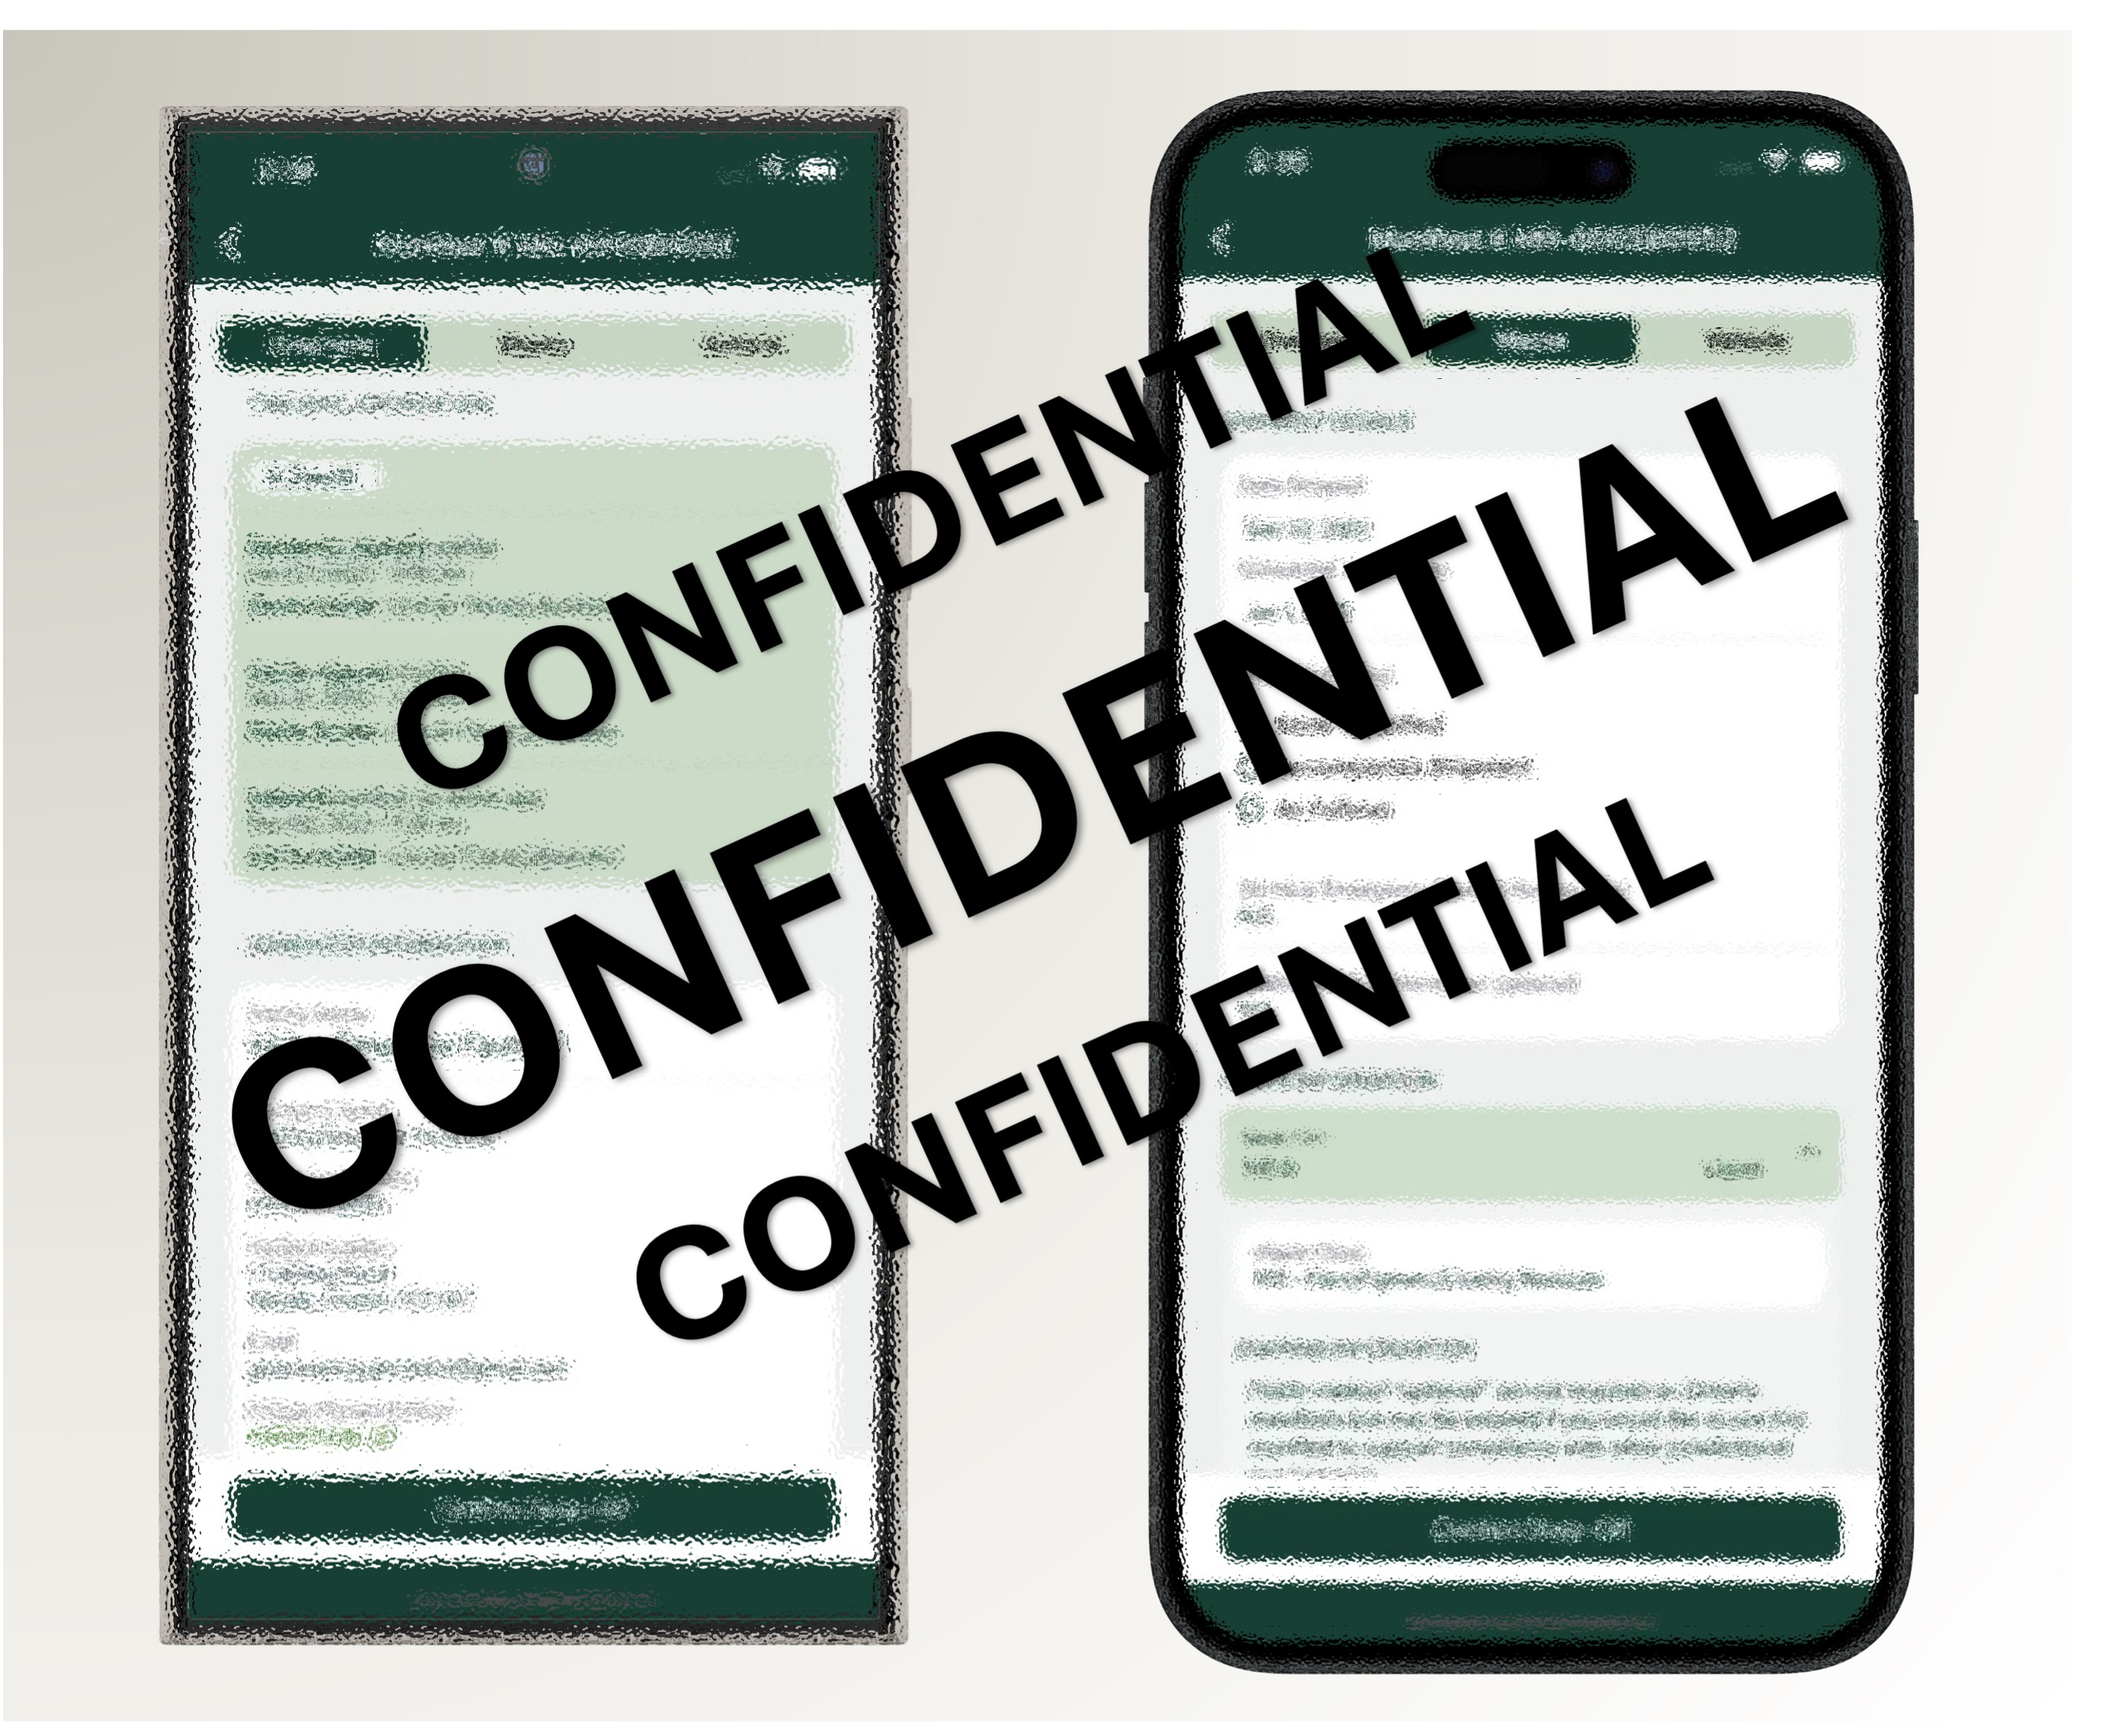
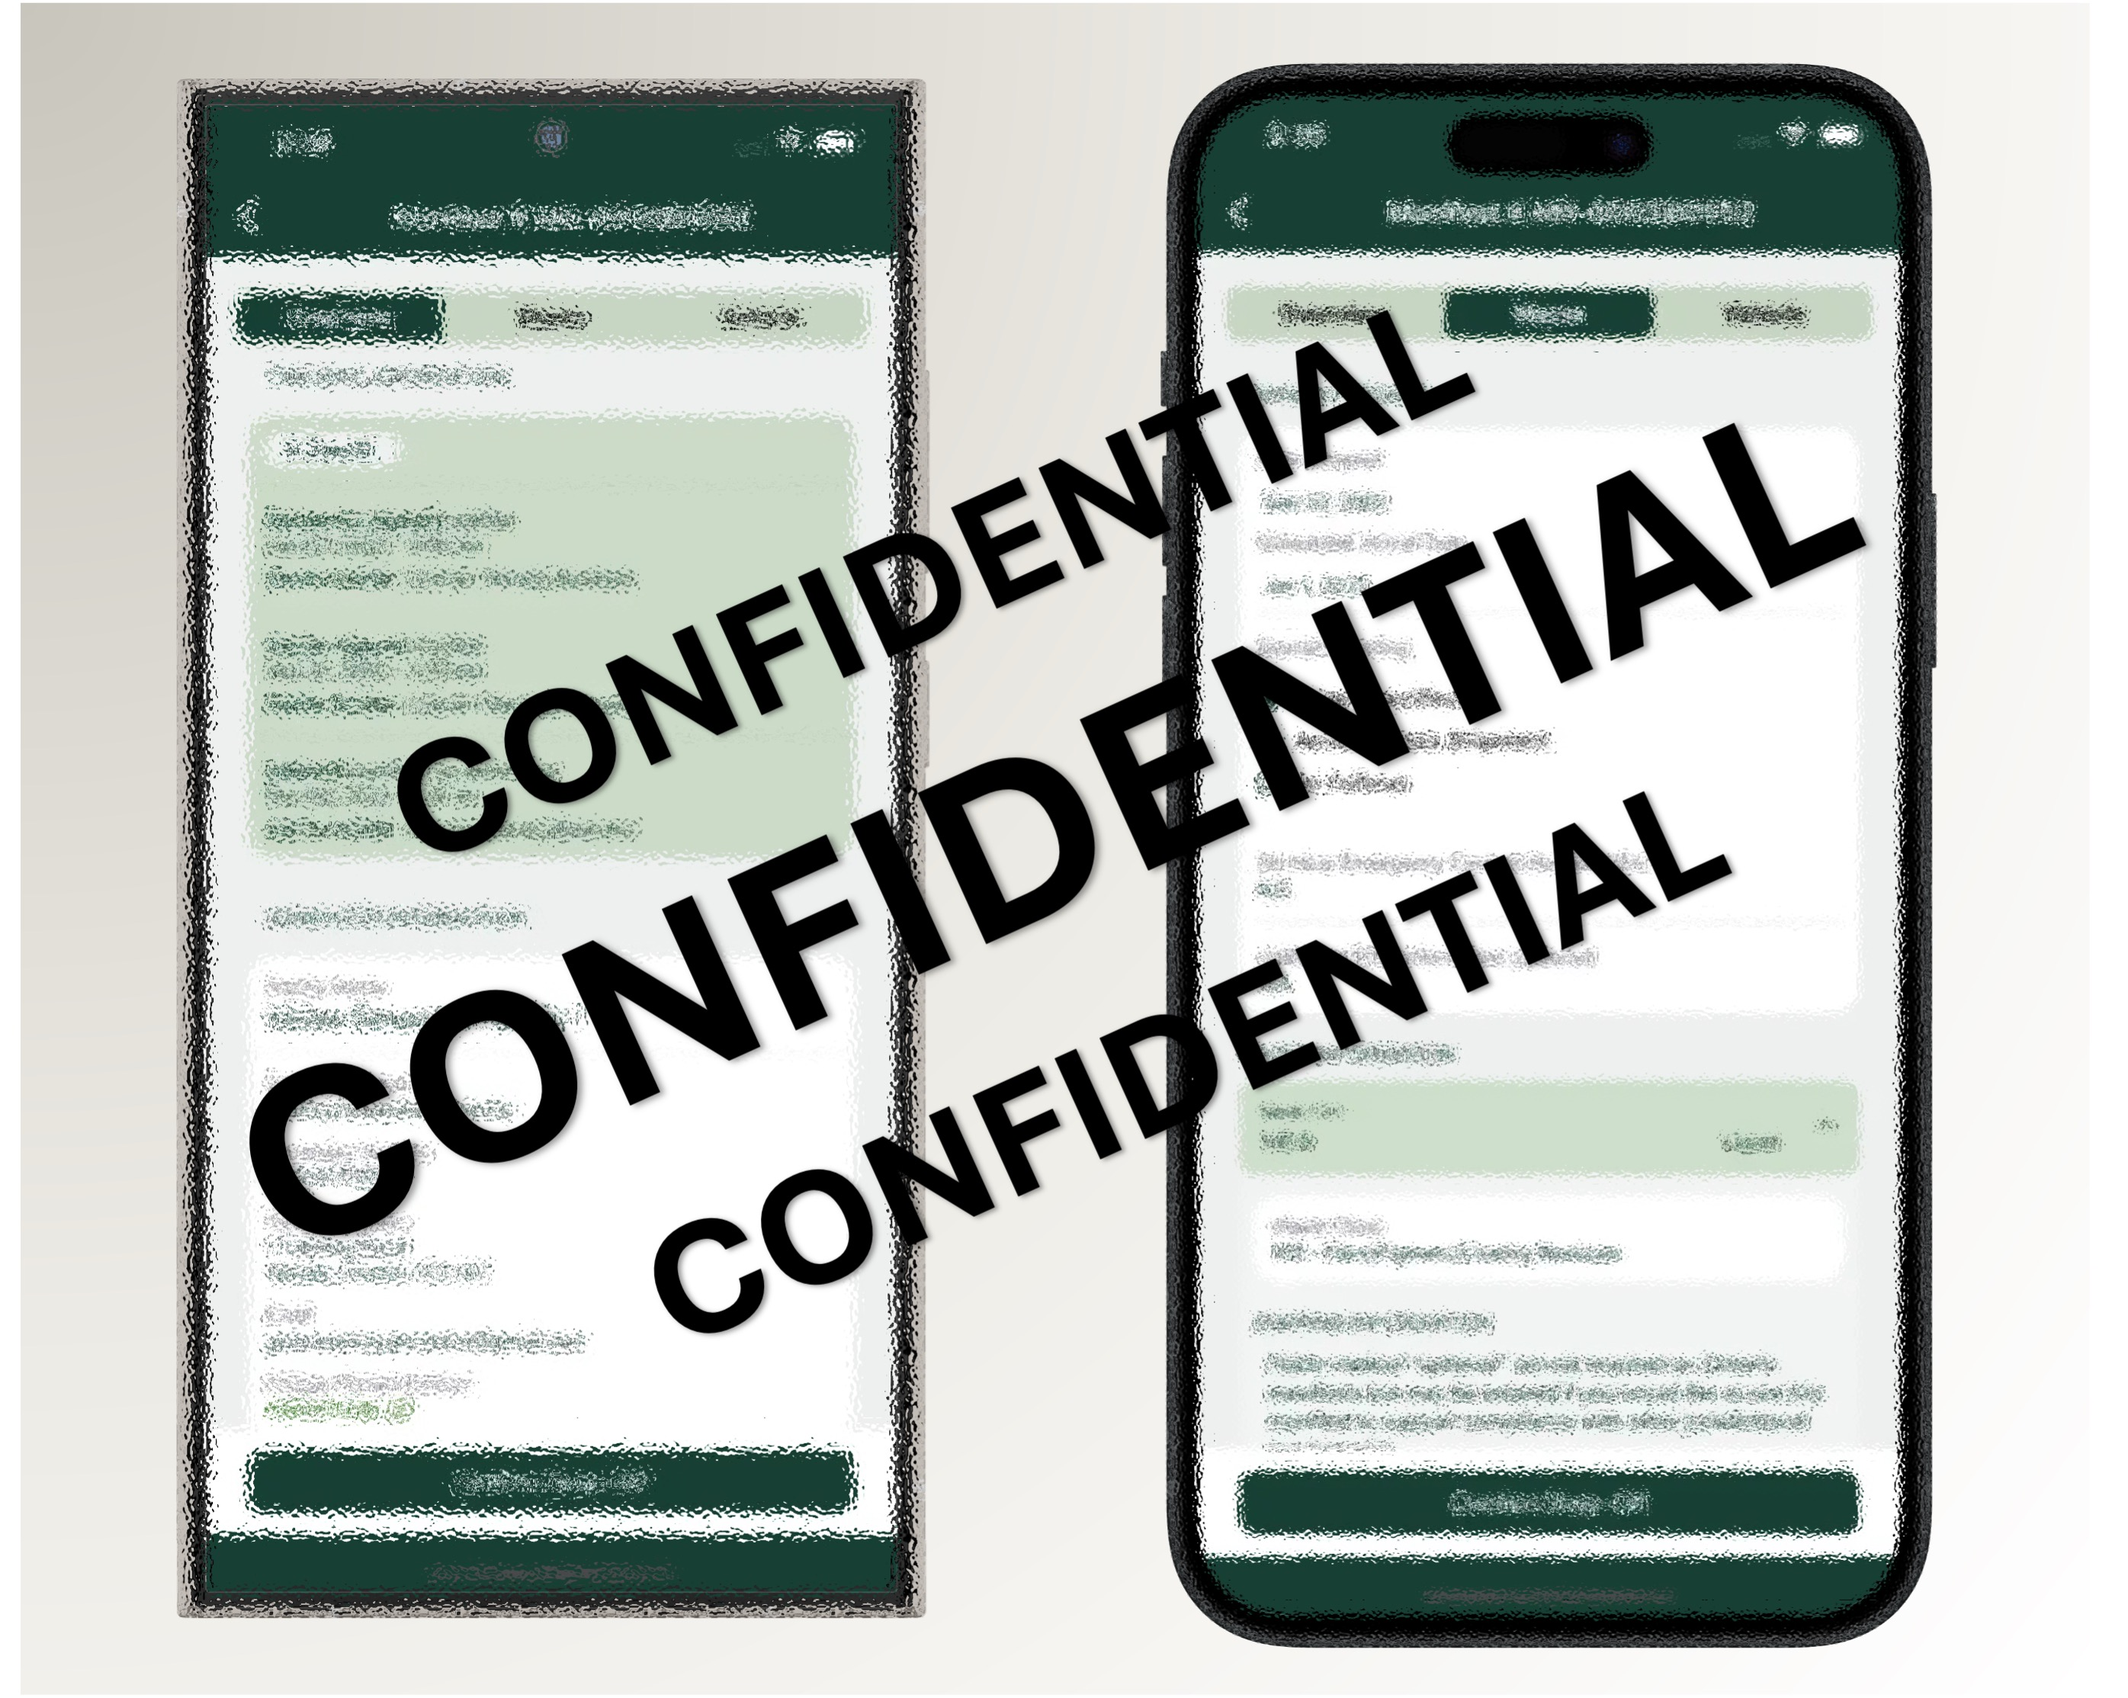
Update: Added GFL Project Images

Changed region(s): [[0.0, 0.0, 0.9321, 0.9915]]

diff --git a/src/features/projects/const.ts b/src/features/projects/const.ts
@@ -42,10 +42,10 @@ const PROJECT_DESCRIPTIONS = {
 	Marble: `As the Senior Front-End Developer for the Marble project, Keshopan mentored a team of front-end developers to create an innovative baby development tracker powered by Artificial Intelligence. From initializing the codebase to deploying the application into production, he led the development process and ensured the delivery of a high-quality product. Collaborating closely with backend developers, data analysts, designers, and business management, he played a key role in delivering a seamless and user-friendly experience.\n\nThe Marble app is designed to support new parents by providing a comprehensive tool to monitor their baby’s development between doctor visits. Features include tracking feedings, sleep patterns, diaper changes, and growth milestones across various domains: physical, gross motor, communication, cognitive, social, and emotional development.\n\nThe application was built in React Native Expo and features several animations for images and navigation, robust test cases for key functionality, AI-based data statistics, and several graphing systems while providing a fluid, seamless user experience on several device types through performance optimizations.`,
 	Sumathy_Portfolio: `Keshopan is currently working on developing a personal portfolio website for a client in the film industry as a freelance project. The website is being built using Next.js and is still in the very early stages of development.\n\nThus far, Keshopan has completed the full design of the webpage, focusing on creating a visually engaging and user-friendly interface tailored to showcase the client’s work and achievements in film. Additional details about the project will be shared as development progresses.`,
 	RKS: `Keshopan designed and developed a professional website for a barbershop client using Next.js as a freelance project. He focused on creating an intuitive and user-friendly interface to provide a seamless browsing experience for visitors.\n\nThe website was built with a strong emphasis on SEO optimization, aiming to improve the barbershop's visibility in search engine results when users search for its location. This included implementing optimized metadata, fast load times, and mobile responsiveness to enhance search rankings and attract more local traffic.`,
-	SMS: `Keshopan worked on the development and enhancement of a proprietary web application for GFL, designed to manage waste services through a digital client platform. Collaborating with a team of several professionals, including fifteen developers, he leveraged Agile methodologies and CI/CD pipelines to ensure efficient and reliable development cycles, and create detailed yet consise weekly demos to showcase the applications development.\n\nThe application was built using ReactJS, incorporating modern foundational principles such as React Hooks and Redux. Keshopan independently drove critical performance optimizations, successfully reducing UI delays from approximately ten seconds to under one second, significantly improving the speed and overall user experience of the platform.\n\nIn addition to performance improvements, Keshopan developed several new webpages and features for the application. Each was implemented using the latest React principles, including React Hooks, to deliver highly efficient and maintainable solutions that aligned with modern best practices.\n\nThis project highlights Keshopan’s advanced expertise in React development, his ability to independently solve complex performance challenges, and his contribution to building scalable, user-centric features in a collaborative environment.`,
+	SMS: `Keshopan worked on the development and enhancement of a proprietary web application for GFL, designed to manage waste services through a digital client platform. Collaborating with a team of several professionals, including fifteen developers, he leveraged Agile methodologies and CI/CD pipelines to ensure efficient and reliable development cycles, and create detailed yet consise weekly demos to showcase the applications development.\n\nThe application was built using ReactJS, incorporating modern foundational principles such as React Hooks and Redux. Keshopan independently drove critical performance optimizations, successfully reducing UI delays from approximately ten seconds to under one second, significantly improving the speed and overall user experience of the platform.\n\nIn addition to performance improvements, Keshopan developed several new webpages and features for the application. Each was implemented using the latest React principles, including React Hooks, to deliver highly efficient and maintainable solutions that aligned with modern best practices.\n\nThis project highlights Keshopan’s advanced expertise in React development, his ability to independently solve complex performance challenges, and his contribution to building scalable, user-centric features in a collaborative environment.\n\nNote: Images of project were blurred and uploaded after review and permission by respective owners.`,
 	JV_Homes: `Keshopan served as a full-stack developer for the development of JV Homes, a real estate and rental platform currently in the process of launching. Working closely with a team of designers, Scrum Masters, and product owners in an Agile environment, Keshopan contributed to the development of a highly functional website built with Next.js.\n\nHe leveraged server-side rendering and implemented SEO optimizations to ensure that the platform was both fast and easily discoverable by search engines, delivering a website that met and exceeded the client’s expectations.\n\nhe utilized AWS for cloud hosting, S3 buckets for efficient file storage, and Prisma for database management. Additionally, he handled deployments using Git and Vercel, ensuring smooth and efficient rollouts.`,
 	DBI: `At David's Bridal, Keshopan was instrumental in the development and enhancement of web applications built with NextJS, React, GraphQL, TypeScript, Styled Components, and Magento. He led the redesign of the mobile product list page and the full appointments booking application, focusing on improving user experience and performance.\n\nKeshopan collaborated closely with a cross-functional team of over 100 developers and external vendors, leveraging key technologies such as Magento, TimeTrade, Bloomreach, and LivePerson Chat to deliver seamless, integrated solutions. His expertise in React and TypeScript allowed him to build reusable, scalable UI components while ensuring high-quality, consistent design based on Figma prototypes. He integrated GraphQL APIs to ensure seamless connections between frontend components and the Magento e-commerce platform, driving smoother user interactions and improved performance.\n\nThroughout the project, Keshopan focused on optimizing the website’s performance, employing techniques such as code splitting and image optimization. He worked closely with backend developers, UI/UX designers, and product managers to refine the platform, ensuring compatibility across browsers and devices using responsive design principles.\n\nKeshopan actively contributed to code reviews, sprint planning, and daily stand-ups. He also played a pivotal role in documenting frontend components and integration processes to facilitate team collaboration. His dedication to thorough testing and debugging ensured that high-quality, bug-free code was delivered on time.`,
-	RPRA: `Keshopan led the front-end development of a proprietary waste management system built with React Native CLI. The application was designed to digitize an existing paper-based tracking system, allowing vehicle drivers to track toxic waste from industrial sources through a mobile platform. It enables drivers to collect signatures and complete manifests, streamlining the waste management process.\n\nThis project involved seamless integration with Salesforce and REST APIs, allowing data to flow between the mobile app and the backend efficiently. Keshopan worked closely with team members smoothly integration and optimized the application for high performance and scalability.\n\nIn addition to leading the development of this innovative solution, Keshopan mentored teams of developers throughout the project, from inception through to production and maintenance. He ensured the application adhered to best practices and high coding standards, with a particular emphasis on mobile app security, using PKCE login and adhering to accessibility standards (AODA). He also drove weekly demos to showcase the team's progress and gather feedback.\n\nHe also focused on delivering robust, maintainable code by creating effective unit tests to ensure quality and reliability across the application. The final product exceeded the client's expectations, delivering a seamless digital solution. However, the drivers weren't as enthusiastic about the switch from paper to digital, with some expressing their frustration about the change.`,
+	RPRA: `Keshopan led the front-end development of a proprietary waste management system built with React Native CLI. The application was designed to digitize an existing paper-based tracking system, allowing vehicle drivers to track toxic waste from industrial sources through a mobile platform. It enables drivers to collect signatures and complete manifests, streamlining the waste management process.\n\nThis project involved seamless integration with Salesforce and REST APIs, allowing data to flow between the mobile app and the backend efficiently. Keshopan worked closely with team members smoothly integration and optimized the application for high performance and scalability.\n\nIn addition to leading the development of this innovative solution, Keshopan mentored teams of developers throughout the project, from inception through to production and maintenance. He ensured the application adhered to best practices and high coding standards, with a particular emphasis on mobile app security, using PKCE login and adhering to accessibility standards (AODA). He also drove weekly demos to showcase the team's progress and gather feedback.\n\nHe also focused on delivering robust, maintainable code by creating effective unit tests to ensure quality and reliability across the application. The final product exceeded the client's expectations, delivering a seamless digital solution. However, the drivers weren't as enthusiastic about the switch from paper to digital, with some expressing their frustration about the change.\n\nNote: Images of project were blurred and uploaded after review and permission by respective owners.`,
 };
 
 export const PROJECTS = [
